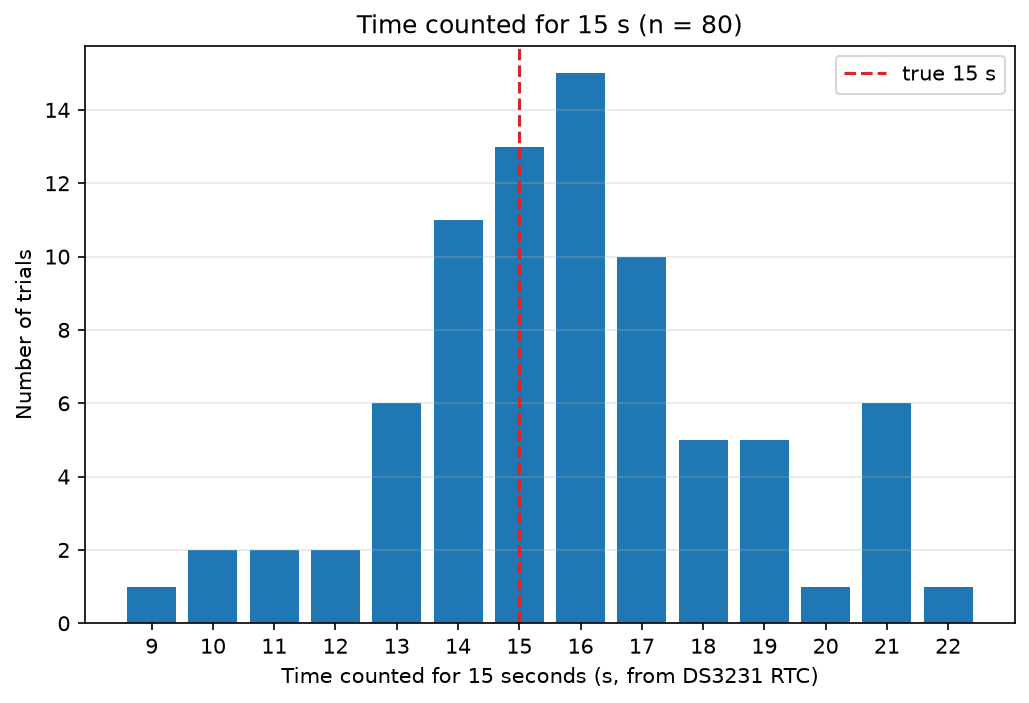
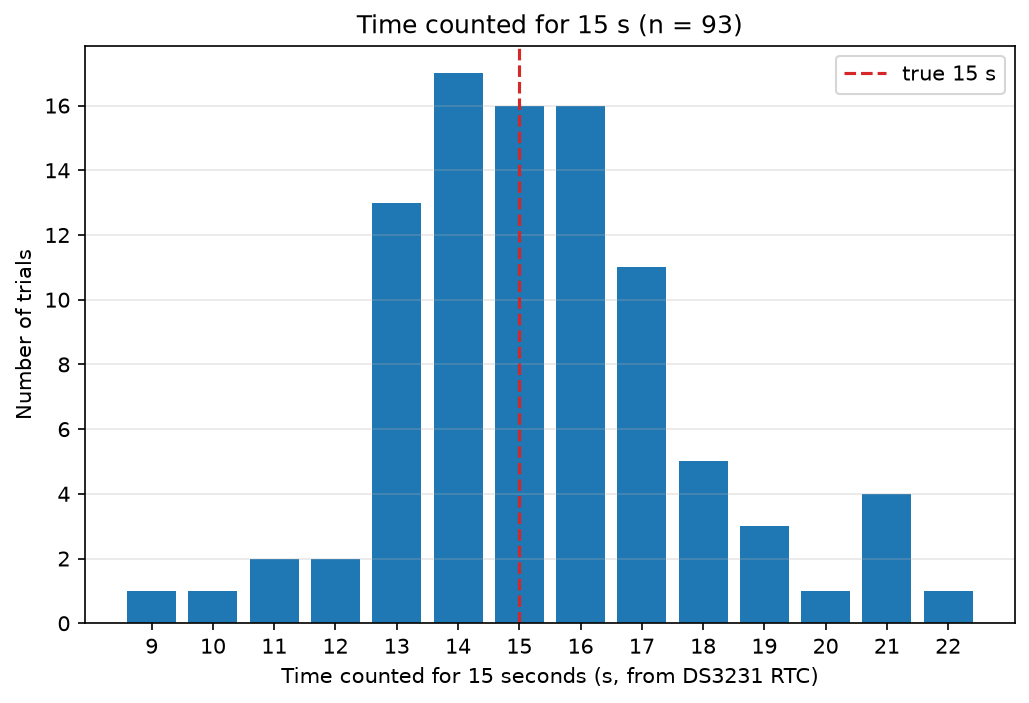
Regenerate histogram from log.txt trial data (n = 93)
plot_histogram.py now reads log.txt directly instead of hardcoded counts.

diff --git a/plot_histogram.py b/plot_histogram.py
@@ -1,38 +1,29 @@
 # plot_histogram.py - runs on the PC
-# Redraws histogram.png and writes log.txt from the same counts,
-# so the log matches the graph. Counts were read from the original graph
-# (n = 80, sums to 80).
-# Note: the log is opened in append mode, so delete log.txt before rerunning
-# or each value will appear twice.
+# Reads the trial times in log.txt (one value per line, written by lab5.py)
+# and draws a histogram of them in histogram.png.
+from collections import Counter
+
 import matplotlib.pyplot as plt
 
 TRUE_S = 15  # the true elapsed time the trials are compared against
 
-# Bin counts: key = counted seconds, value = number of trials
-counts = {9: 1, 10: 2, 11: 2, 12: 2, 13: 6, 14: 11, 15: 13,
-          16: 15, 17: 10, 18: 5, 19: 5, 20: 1, 21: 6, 22: 1}
+# Read one counted time per line, skipping blank lines
+with open("log.txt") as f:
+    values = [int(line) for line in f if line.strip()]
 
-n = sum(counts.values())  # total number of trials
-# mean is computed but not printed or saved; kept for checking the data
-mean = sum(k * v for k, v in counts.items()) / n
+# Count how many trials gave each counted time
+counts = Counter(values)
+keys = sorted(counts)
+n = len(values)  # total number of trials
 
 # Bar chart of the counts, with a dashed line at the true 15 s
 plt.figure(figsize=(8, 5))
-plt.bar(list(counts.keys()), list(counts.values()), width=0.8)
+plt.bar(keys, [counts[k] for k in keys], width=0.8)
 plt.axvline(TRUE_S, color="tab:red", linestyle="--", label=f"true {TRUE_S} s")
 plt.xlabel("Time counted for 15 seconds (s, from DS3231 RTC)")
 plt.ylabel("Number of trials")
 plt.title(f"Time counted for 15 s (n = {n})")
-plt.xticks(list(counts.keys()))
+plt.xticks(keys)
 plt.grid(axis="y", alpha=0.3)
 plt.legend()
 plt.savefig("histogram.png", dpi=150, bbox_inches="tight")
-
-# One value per line, the same format lab5.py writes
-log = open("log.txt", "a")
-for k, v in counts.items():
-    # Write each counted value once per trial
-    for _ in range(v):
-        log.write("{}\n".format(k))
-        log.flush()
-log.close()
